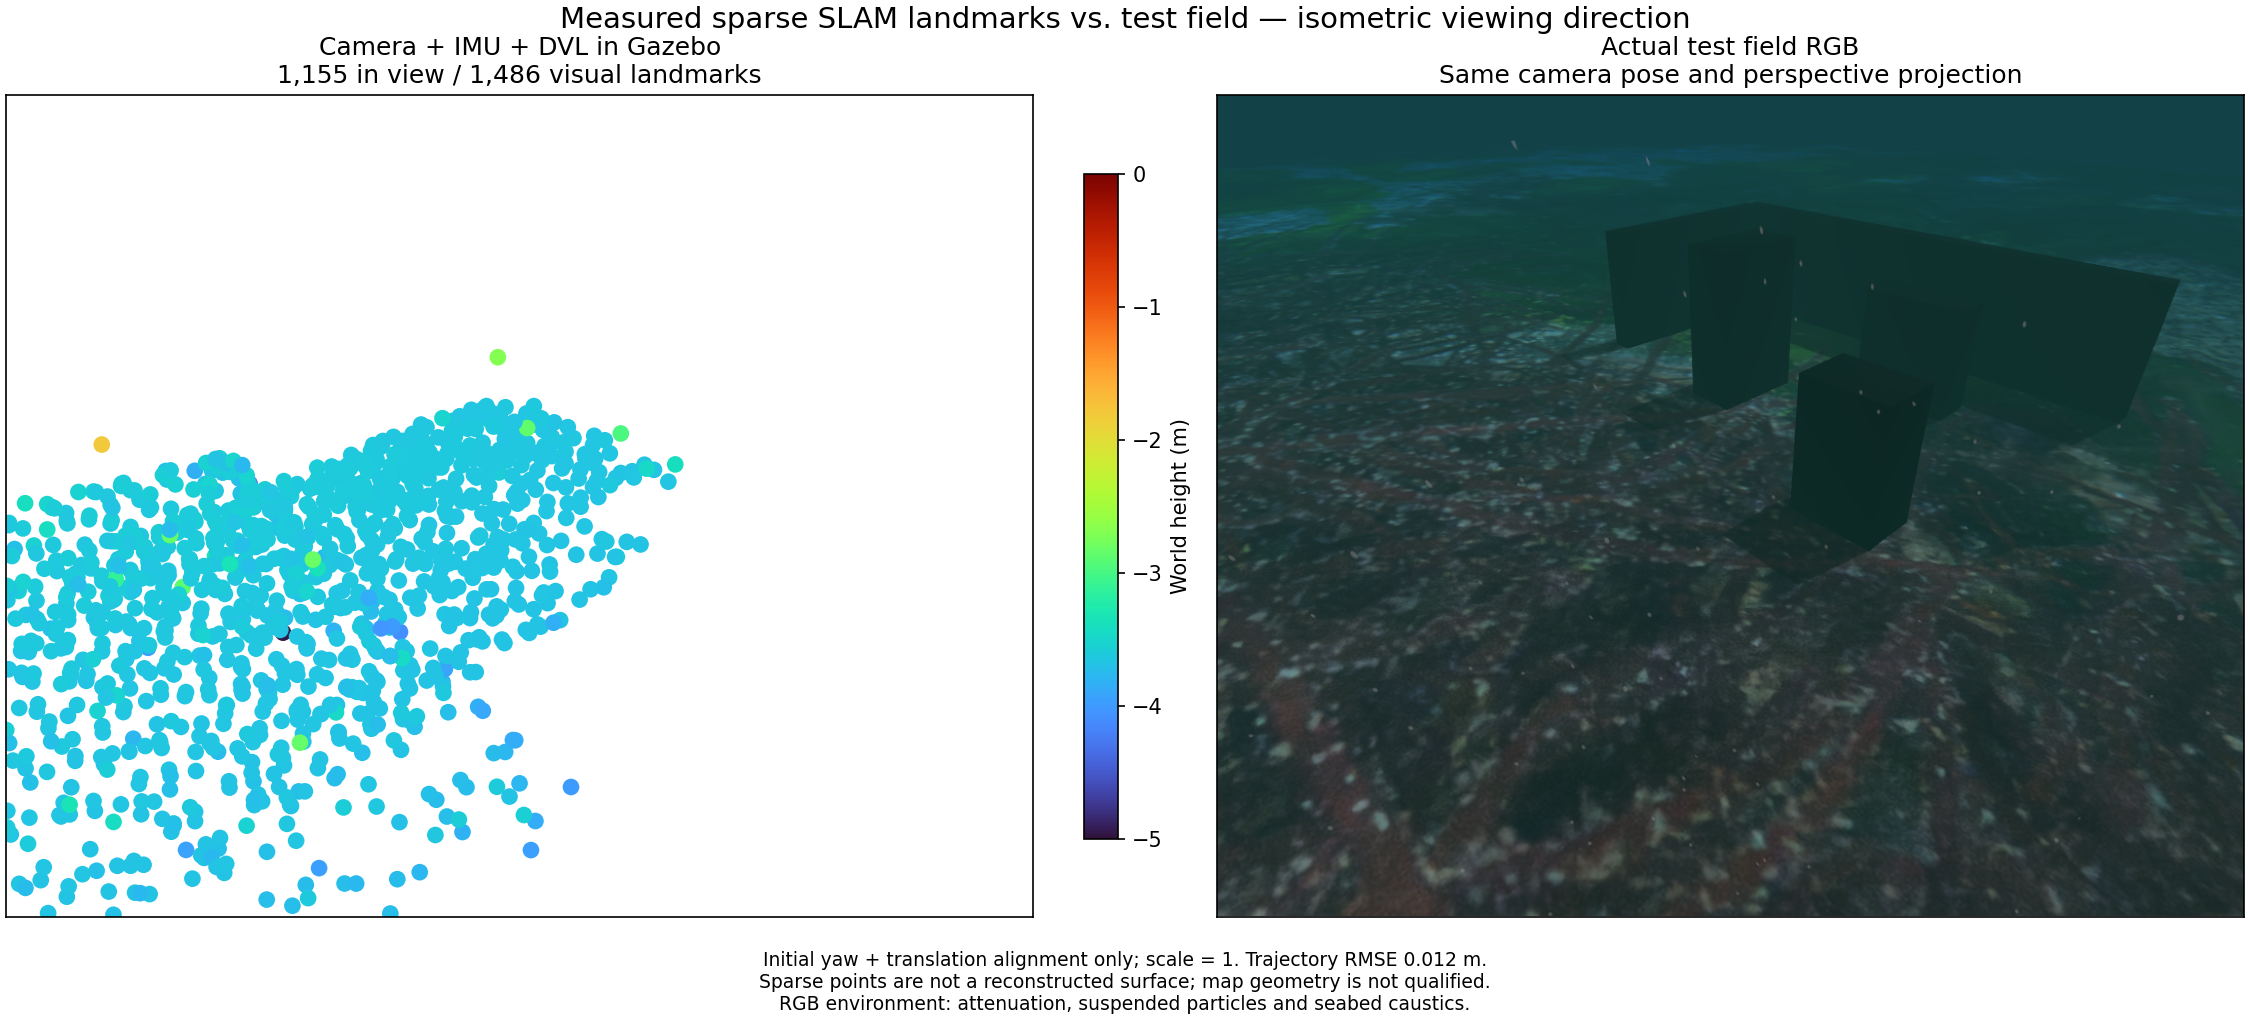
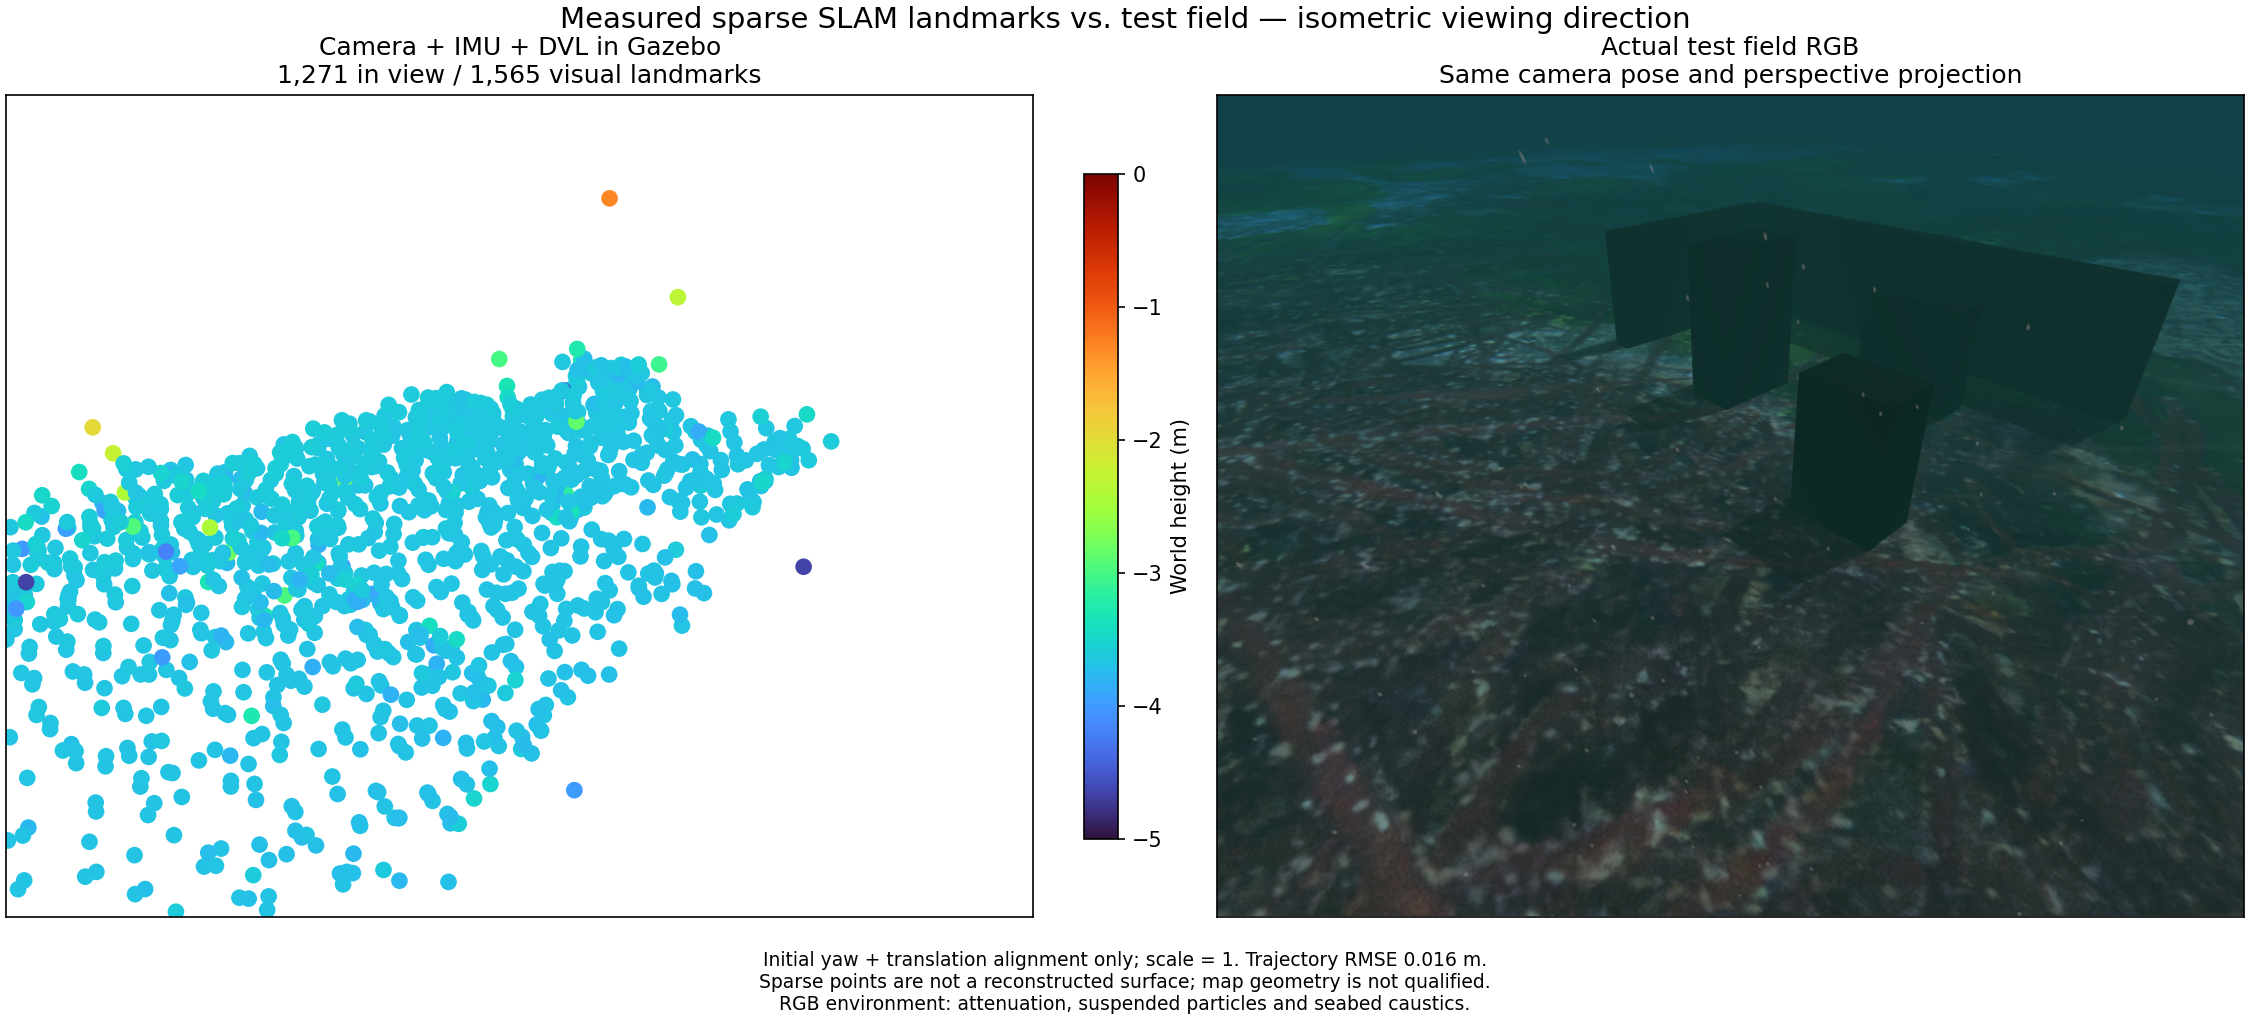
Compare bounded two-depth native survey with retained map failures

diff --git a/docs/diagnostics/visual-depth-admission.md b/docs/diagnostics/visual-depth-admission.md
@@ -26,13 +26,15 @@ The figure uses the same actual isometric camera pose/perspective, Turbo -5 to 0
 
 ![Staged native map and same-pose RGB](../images/visual-depth-native.png)
 
-[Complete staged native PLY](../data/visual-depth-native.ply). The Apple Silicon development SDK runs the actual terrain demo/controller with camera, raw IMU and measured DVL; Ping is transport-only. The rewritten staged worker is retested through ROS DVL loss/return and actual simulator recovery/export before SDK registration. The run after integration with WWW-POSIM's GNSS-enabled main evaluates 59.8 s over 13.1026 m: position RMSE/max is 0.01158/0.02080 m with initial yaw/translation alignment and scale one. All owned processes stop. This qualifies demonstrated development startup/transport/export, with explicit DVL settings; signed installed GUI and payload-driven combination switching are separate.
+[Complete staged native PLY](../data/visual-depth-native.ply). The Apple Silicon development SDK runs the actual terrain demo/controller with camera, raw IMU and measured DVL; Ping is transport-only. The rewritten staged worker is retested through ROS DVL loss/return and actual simulator recovery/export before SDK registration. The illustrated 5.5 m two-depth survey uses 0.6/1.2 m depths with the existing corridor safety guards and unchanged estimator. It evaluates 59.8 s over 14.6404 m: position RMSE/max is 0.01613/0.02308 m with initial yaw/translation alignment and scale one. All owned processes stop. This qualifies demonstrated development startup/transport/export, with explicit DVL settings; signed installed GUI and payload-driven combination switching are separate.
 
-There are 1,486 points, 1,388 within 10 cm of physical collision geometry, median/p90 0.01336/0.07195 m and maximum **2.76469 m**. The map remains unqualified and obstacle coverage is poor. Preceding separate native runs have maxima of 2.57242 m and **3.53154 m**; the worse result is retained in the application validation archive. These runs do not establish repeatability or a causal improvement. The matched RGB includes attenuation, suspended particles and caustics; points use Turbo -5 to 0 m and 64 pt² markers.
+There are 1,565 points, 1,428 within 10 cm of physical collision geometry, median/p90 0.01633/0.08878 m and maximum **2.22648 m**. The map remains unqualified and obstacle coverage is poor. The 4 m route has 1,486 points, 98 outside 10 cm, median/p90 0.01336/0.07195 m and maximum 2.76469 m; the two-depth run has 137 outside 10 cm. Preceding native maxima of 2.57242 m and **3.53154 m** remain in the application validation archive. Separate asynchronous runs do not establish repeatability or a causal improvement. The matched RGB includes attenuation, suspended particles and caustics; points use Turbo -5 to 0 m and 64 pt² markers.
 
 Post-estimation retriangulation of the same measured pixels using recorded true poses leaves three ROS-map outliers 1.815/1.826/1.436 m from collision surfaces. VIO pose error alone does not explain them. This diagnostic does not validate camera timing/mounts or prove dynamic-effect causality. Check static physical correspondence and exact image/pose synchronization next; no truth is fed to the estimator or used for trimming.
 
 A conditional camera-frustum diagnostic on 231 poses of the recorded ROS run finds a projected bounding box above one pixel in 46/29 frames for the first two targets, and none for the third target or either wall. The camera looks down while the sonar looks forward. This upper bound assumes recorded timing/mounts and omits occlusion and attenuation; it is not measured feature detection. A test route must provide overlapping views of the intended objects. Missing observation opportunities and erroneous map points require separate investigation.
+
+The actual two-depth native survey provides the third target 59/341 conditional view opportunities, versus 0/327 on the native 4 m route. The first two targets increase from 47/34 to 129/81 frames, and wall 0 from zero to seven; wall 1 remains unseen. Nine/five/four map points lie within 10 cm of the respective targets as their nearest surface. These are proximity counts, not identified physical landmarks or reconstructed area. Better observation opportunity alone does not qualify the map.
 
 [Physical-surface persistence diagnostic](../data/visual-surface-persistence.json) intersects the measured feature rays with collision geometry after estimation. The three worst tracks span 7.27/8.62/7.26 cm on the surface, with first-hit-anchor reprojection RMSE 1.76/2.22/2.30 processed pixels. Five low-surface-error controls span 0.30–3.01 cm and 0.13–0.42 pixels. The first collision hit need not be the actual tracked feature: particles, illumination, tracking error and timing remain possible causes. These selected cases do not establish a detector or new rejection threshold.
 
@@ -40,13 +42,15 @@ A conditional camera-frustum diagnostic on 231 poses of the recorded ROS run fin
 
 Known target edges broadly align with recorded RGB in the sampled views. This checks gross camera/mount consistency but does not certify subpixel calibration or precise timing. Strengthen the test's overlapping physical views and inspect feature persistence before promoting another map-admission heuristic.
 
-Apple Silicon 개발 SDK에서 카메라·원본 IMU·측정 DVL로 실제 지형 데모와 제어기를 실행했습니다. Ping은 관측 전달만 사용합니다. 배치로 해시가 바뀐 작업자는 ROS DVL 중단·복귀와 실제 시뮬레이터 복구·내보내기를 다시 통과한 뒤 등록합니다. GNSS를 포함한 WWW-POSIM main과 통합한 실행은 59.8초·13.1026 m에서 초기 방위각·위치만 정렬하고 축척을 1로 유지한 위치 RMSE/최대 오차 0.01158/0.02080 m를 기록합니다. 소유 프로세스는 모두 종료됐습니다. 명시적 DVL 설정의 개발용 시작·전송·내보내기 검증이며 서명 설치형 GUI와 센서 선택에 따른 기본 조합 전환은 별도입니다.
+Apple Silicon 개발 SDK에서 카메라·원본 IMU·측정 DVL로 실제 지형 데모와 제어기를 실행했습니다. Ping은 관측 전달만 사용합니다. 배치로 해시가 바뀐 작업자는 ROS DVL 중단·복귀와 실제 시뮬레이터 복구·내보내기를 다시 통과한 뒤 등록합니다. 그림의 5.5 m 왕복 시험은 기존 통로 안전 조건과 추정기를 유지하고 수심 0.6/1.2 m에서 관측합니다. 59.8초·14.6404 m에서 초기 방위각·위치만 정렬하고 축척을 1로 유지한 위치 RMSE/최대 오차는 0.01613/0.02308 m입니다. 소유 프로세스는 모두 종료됐습니다. 명시적 DVL 설정의 개발용 시작·전송·내보내기 검증이며 서명 설치형 GUI와 센서 선택에 따른 기본 조합 전환은 별도입니다.
 
-1,486점 중 1,388점이 실제 충돌 표면의 10 cm 이내이며 중앙값·90백분위는 0.01336/0.07195 m, 최대 거리는 **2.76469 m**입니다. 앞선 별도 네이티브 실행의 최대 2.57242 m와 **3.53154 m**도 앱 검증 기록에 보존합니다. 실행 간 반복성이나 수정의 개선 효과를 확정하지 않습니다. 지도는 미통과이고 물체 복원은 약합니다. 같은 시점 RGB에는 감쇠·입자·집광무늬가 포함되며 점군은 Turbo -5~0 m와 64 pt² 점을 사용합니다.
+1,565점 중 1,428점이 실제 충돌 표면의 10 cm 이내이며 중앙값·90백분위는 0.01633/0.08878 m, 최대 거리는 **2.22648 m**입니다. 4 m 경로는 1,486점·10 cm 밖 98점·중앙값/90백분위 0.01336/0.07195 m·최대 2.76469 m이며 두 깊이 경로의 10 cm 밖 점은 137개입니다. 앞선 별도 네이티브 실행의 최대 2.57242 m와 **3.53154 m**도 보존합니다. 비동기 실행 간 반복성이나 개선 효과를 확정하지 않습니다. 지도는 미통과이고 물체 복원은 약합니다. 같은 시점 RGB에는 감쇠·입자·집광무늬가 포함되며 점군은 Turbo -5~0 m와 64 pt² 점을 사용합니다.
 
 추정 후 같은 영상 픽셀을 참 자세로 다시 삼각측량해도 ROS 지도의 세 이상점은 표면에서 1.815/1.826/1.436 m 떨어집니다. VIO 자세 오차만으로 설명되지 않습니다. 이 진단은 카메라 시각·장착의 정확성이나 동적 효과의 원인을 확정하지 않습니다. 정적 물체 대응과 영상·자세 시각 일치를 확인해야 하며 참값을 추정기에 입력하거나 지도 제거에 사용하지 않습니다.
 
 기록된 ROS 실행의 자세 231개로 계산한 조건부 카메라 시야 진단에서 첫 두 표적은 각각 46/29개 프레임에 1픽셀을 넘는 투영 경계 상자를 갖지만 세 번째 표적과 벽 두 개는 한 번도 들어오지 않습니다. 카메라는 아래를, 소나는 앞을 봅니다. 기록 시각·장착을 가정하고 가림·감쇠를 제외한 상한이므로 실제 특징 검출을 뜻하지 않습니다. 시험 경로는 대상 물체를 여러 겹치는 시점에서 관측할 기회를 제공해야 합니다. 관측 기회 부족과 잘못 생성된 지도점은 따로 조사해야 합니다.
+
+실제 네이티브의 두 깊이 왕복 경로에서 세 번째 표적의 조건부 관측 기회는 59/341 프레임이며 4 m 경로의 0/327보다 늘었습니다. 첫 두 표적은 47/34에서 129/81 프레임으로, 첫 벽은 0에서 7프레임으로 늘고 두 번째 벽은 보이지 않습니다. 지도에서 각 표적을 가장 가까운 표면으로 갖는 10 cm 이내 점은 9/5/4개입니다. 이는 근접 점 수이며 물체 ID나 복원 면적을 뜻하지 않습니다. 관측 기회가 좋아져도 지도 검증은 별도로 필요합니다.
 
 추정 후 측정 픽셀 광선과 실제 충돌 형상의 교차점을 비교하면 큰 이상점 세 개의 표면 위치 범위는 7.27/8.62/7.26 cm이고 첫 교차점을 고정했을 때 재투영 RMSE는 처리 영상 기준 1.76/2.22/2.30픽셀입니다. 표면 오차가 작은 비교점 다섯 개는 0.30~3.01 cm와 0.13~0.42픽셀입니다. 첫 충돌점이 실제 추적 대상이라는 보장은 없으며 입자·조명·추적 오류·시각 오차를 구분해야 합니다. 선택한 사례를 새 검출기나 제거 기준으로 사용하지 않습니다.
 
